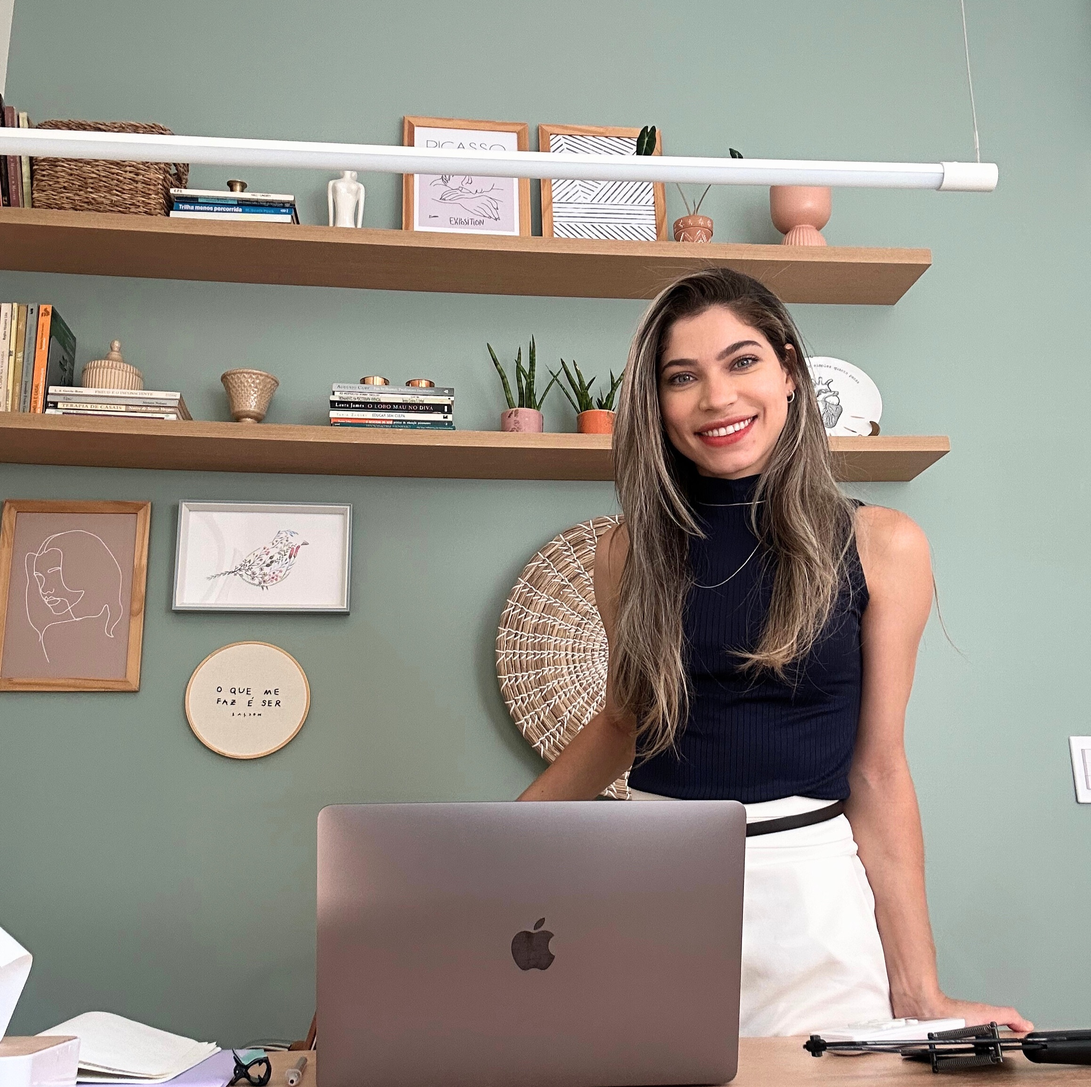
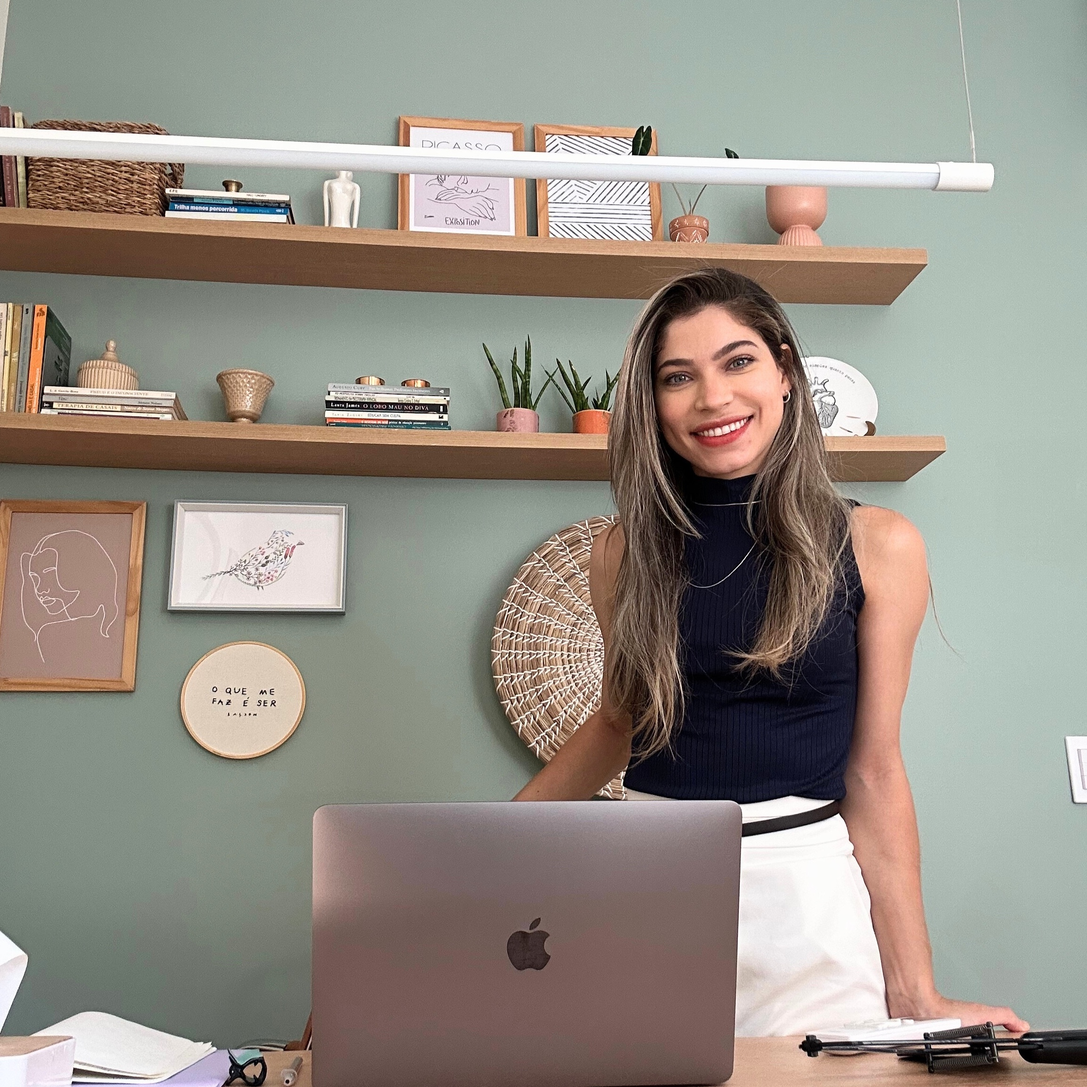
e-books and other updates

diff --git a/docs/index.html b/docs/index.html
@@ -16,8 +16,8 @@
     <meta property="og:locale" content="pt_BR">
     <meta property="og:image" content="https://nutritayaneventura.github.io/images/tay.jpg">
     <meta property="og:image:type" content="image/jpeg">
-    <meta property="og:image:width" content="500">
-    <meta property="og:image:height" content="300">
+    <meta property="og:image:width" content="400">
+    <meta property="og:image:height" content="400">
 
     <link rel="icon" type="image/x-icon" href="/images/favicon.ico" />
 
@@ -131,7 +131,7 @@
                             Minha abordagem é fundamentada na empatia, compreensão e conhecimento científico,
                             visando oferecer o melhor suporte possível em sua jornada.
                         </p>
-                        <a href="#" class="btn whatsapp-service" data-service="consulta">Agendar consulta</a>
+                        <a href="#" class="btn whatsapp-service" data-service="consulta">Agendar Consulta</a>
                     </div>
                 </div>
                 <div class="features">
@@ -149,7 +149,7 @@
                             <i class="fas fa-book" aria-hidden="true"></i>
                             <h3>Receitas</h3>
                             <p>
-                                E-books com receitas saborosas para uma alimentação saudável.
+                                E-Books com receitas saborosas para uma alimentação saudável.
                             </p>
                         </article>
                     </a>
@@ -171,18 +171,120 @@
                 <h2>Receitas Saudáveis e Saborosas</h2>
                 <div class="products-grid">
 
-                    <!-- E-Book 1 -->
                     <article class="product-card">
                         <div class="product-image">
-                            <img src="https://images.unsplash.com/photo-1704642154533-22893ca3c1ac?auto=format&fit=crop&w=500"
-                                alt="E-Book 1 cover" width="500" height="300" loading="lazy" />
+                            <img src="https://nutritayaneventura.github.io/images/ebooks/gluten.jpeg" alt="E-Book cover"
+                                width="500" height="300" loading="lazy" />
                         </div>
                         <div class="product-info">
-                            <h3>E-Book</h3>
-                            <p>Diversas receitas para o seu dia a dia.</p>
+                            <h3>E-Book: Receitas sem Glúten</h3>
+                            <p>Receitas deliciosas e seguras para pessoas celíacas ou com alterações intestinais.</p>
                             <div class="product-order-form">
-                                <button class="btn-small whatsapp-btn" data-product-id="book1"
-                                    data-product-name="E-Book">
+                                <button class="btn-small whatsapp-btn" data-product-name="E-Book: Receitas sem Glúten">
+                                    <i class="fab fa-whatsapp"></i> Comprar pelo WhatsApp
+                                </button>
+                            </div>
+                        </div>
+                    </article>
+
+                    <article class="product-card">
+                        <div class="product-image">
+                            <img src="https://nutritayaneventura.github.io/images/ebooks/lactose.jpeg"
+                                alt="E-Book cover" width="500" height="300" loading="lazy" />
+                        </div>
+                        <div class="product-info">
+                            <h3>E-Book: Sobremesas sem Lactose</h3>
+                            <p>Sobremesas saborosas e cremosas para pessoas sensíveis ou intolerantes à lactose.</p>
+                            <div class="product-order-form">
+                                <button class="btn-small whatsapp-btn"
+                                    data-product-name="E-Book: Sobremesas sem Lactose">
+                                    <i class="fab fa-whatsapp"></i> Comprar pelo WhatsApp
+                                </button>
+                            </div>
+                        </div>
+                    </article>
+
+                    <article class="product-card">
+                        <div class="product-image">
+                            <img src="https://nutritayaneventura.github.io/images/ebooks/lowcarb.jpeg"
+                                alt="E-Book cover" width="500" height="300" loading="lazy" />
+                        </div>
+                        <div class="product-info">
+                            <h3>E-Book: Sobremesas Low Carb</h3>
+                            <p>Sobremesas com baixa concentração de carboidratos. Ideal para quem busca reduzir o
+                                açúcar, sem abrir mão do sabor.</p>
+                            <div class="product-order-form">
+                                <button class="btn-small whatsapp-btn" data-product-name="E-Book: Sobremesas Low Carb">
+                                    <i class="fab fa-whatsapp"></i> Comprar pelo WhatsApp
+                                </button>
+                            </div>
+                        </div>
+                    </article>
+
+                    <article class="product-card">
+                        <div class="product-image">
+                            <img src="https://nutritayaneventura.github.io/images/ebooks/fitness.jpeg"
+                                alt="E-Book cover" width="500" height="300" loading="lazy" />
+                        </div>
+                        <div class="product-info">
+                            <h3>E-Book: Receitas Fitness</h3>
+                            <p>Receitas saudáveis e rápidas para quem não tem tempo de passar horas na cozinha, mas
+                                deseja manter uma alimentação equilibrada.</p>
+                            <div class="product-order-form">
+                                <button class="btn-small whatsapp-btn" data-product-name="E-Book: Receitas Fitness">
+                                    <i class="fab fa-whatsapp"></i> Comprar pelo WhatsApp
+                                </button>
+                            </div>
+                        </div>
+                    </article>
+
+                    <article class="product-card">
+                        <div class="product-image">
+                            <img src="https://nutritayaneventura.github.io/images/ebooks/veg.jpeg" alt="E-Book cover"
+                                width="500" height="300" loading="lazy" />
+                        </div>
+                        <div class="product-info">
+                            <h3>E-Book: Receitas Vegetarianas</h3>
+                            <p>Uma seleção de receitas deliciosas e nutritivas para quem não consome carne ou busca
+                                alternativas leves para a digestão.</p>
+                            <div class="product-order-form">
+                                <button class="btn-small whatsapp-btn"
+                                    data-product-name="E-Book: Receitas Vegetarianas">
+                                    <i class="fab fa-whatsapp"></i> Comprar pelo WhatsApp
+                                </button>
+                            </div>
+                        </div>
+                    </article>
+
+                    <article class="product-card">
+                        <div class="product-image">
+                            <img src="https://nutritayaneventura.github.io/images/ebooks/kids.jpeg" alt="E-Book cover"
+                                width="500" height="300" loading="lazy" />
+                        </div>
+                        <div class="product-info">
+                            <h3>E-Book: Lanches para Crianças</h3>
+                            <p>Lanches saudáveis e saborosos para seu filho levar na lancheira. Opções nutritivas que
+                                combinam praticidade e prazer na alimentação infantil.</p>
+                            <div class="product-order-form">
+                                <button class="btn-small whatsapp-btn"
+                                    data-product-name="E-Book: Lanches para Crianças">
+                                    <i class="fab fa-whatsapp"></i> Comprar pelo WhatsApp
+                                </button>
+                            </div>
+                        </div>
+                    </article>
+
+                    <article class="product-card">
+                        <div class="product-image">
+                            <img src="https://nutritayaneventura.github.io/images/ebooks/tea.jpeg" alt="E-Book cover"
+                                width="500" height="300" loading="lazy" />
+                        </div>
+                        <div class="product-info">
+                            <h3>E-Book: Chás Medicinais</h3>
+                            <p>Para os amantes de chás! Combinações terapêuticas para diversas necessidades, desde
+                                relaxamento até melhora da digestão e imunidade.</p>
+                            <div class="product-order-form">
+                                <button class="btn-small whatsapp-btn" data-product-name="E-Book: Chás Medicinais">
                                     <i class="fab fa-whatsapp"></i> Comprar pelo WhatsApp
                                 </button>
                             </div>
@@ -204,7 +306,7 @@
                         <p>
                             Acompanho você semanalmente, te auxiliando a alcançar seus objetivos.
                         </p>
-                        <a href="#" class="btn-small whatsapp-service" data-service="consultoria">Contratar</a>
+                        <a href="#" class="btn-small whatsapp-service" data-service="consultoria">Solicitar</a>
                     </article>
                     <article class="service-card">
                         <div class="service-icon">
@@ -214,7 +316,7 @@
                         <p>
                             Balança de bioimpedância + avaliações de perimetria corporal e dobras cutâneas.
                         </p>
-                        <a href="#" class="btn-small whatsapp-service" data-service="avaliacao">Agendar</a>
+                        <a href="#" class="btn-small whatsapp-service" data-service="avaliacao">Solicitar</a>
                     </article>
                     <article class="service-card">
                         <div class="service-icon">
@@ -224,7 +326,7 @@
                         <p>
                             Solicitação e interpretação de exames bioquímicos (exames de sangue).
                         </p>
-                        <a href="#" class="btn-small whatsapp-service" data-service="exames">Requisitar</a>
+                        <a href="#" class="btn-small whatsapp-service" data-service="exames">Solicitar</a>
                     </article>
                     <article class="service-card">
                         <div class="service-icon">

diff --git a/docs/script.js b/docs/script.js
@@ -193,22 +193,22 @@ document.addEventListener("DOMContentLoaded", function () {
 
                 switch (serviceType) {
                     case "consulta":
-                        message = "Olá, Tayane! Gostaria de agendar uma consulta nutricional.";
+                        message = "Olá, Tayane! Eu tenho interesse na consulta nutricional.";
                         break;
                     case "consultoria":
-                        message = "Olá, Tayane! Tenho interesse na consultoria nutricional.";
+                        message = "Olá, Tayane! Eu tenho interesse na consultoria nutricional.";
                         break;
                     case "avaliacao":
-                        message = "Olá, Tayane! Gostaria de agendar uma avaliação física.";
+                        message = "Olá, Tayane! Eu tenho interesse na avaliação física.";
                         break;
                     case "exames":
-                        message = "Olá, Tayane! Gostaria de auxílio com exames bioquímicos.";
+                        message = "Olá, Tayane! Eu tenho interesse em exames bioquímicos.";
                         break;
                     case "plano":
-                        message = "Olá, Tayane! Tenho interesse em obter um plano alimentar personalizado.";
+                        message = "Olá, Tayane! Eu tenho interesse no plano alimentar personalizado.";
                         break;
                     default:
-                        message = "Olá, Tayane! Gostaria de obter mais informações sobre seus serviços nutricionais.";
+                        message = "Olá, Tayane! Eu gostaria de saber mais sobre seus serviços nutricionais.";
                 }
 
                 // Create and open WhatsApp URL
